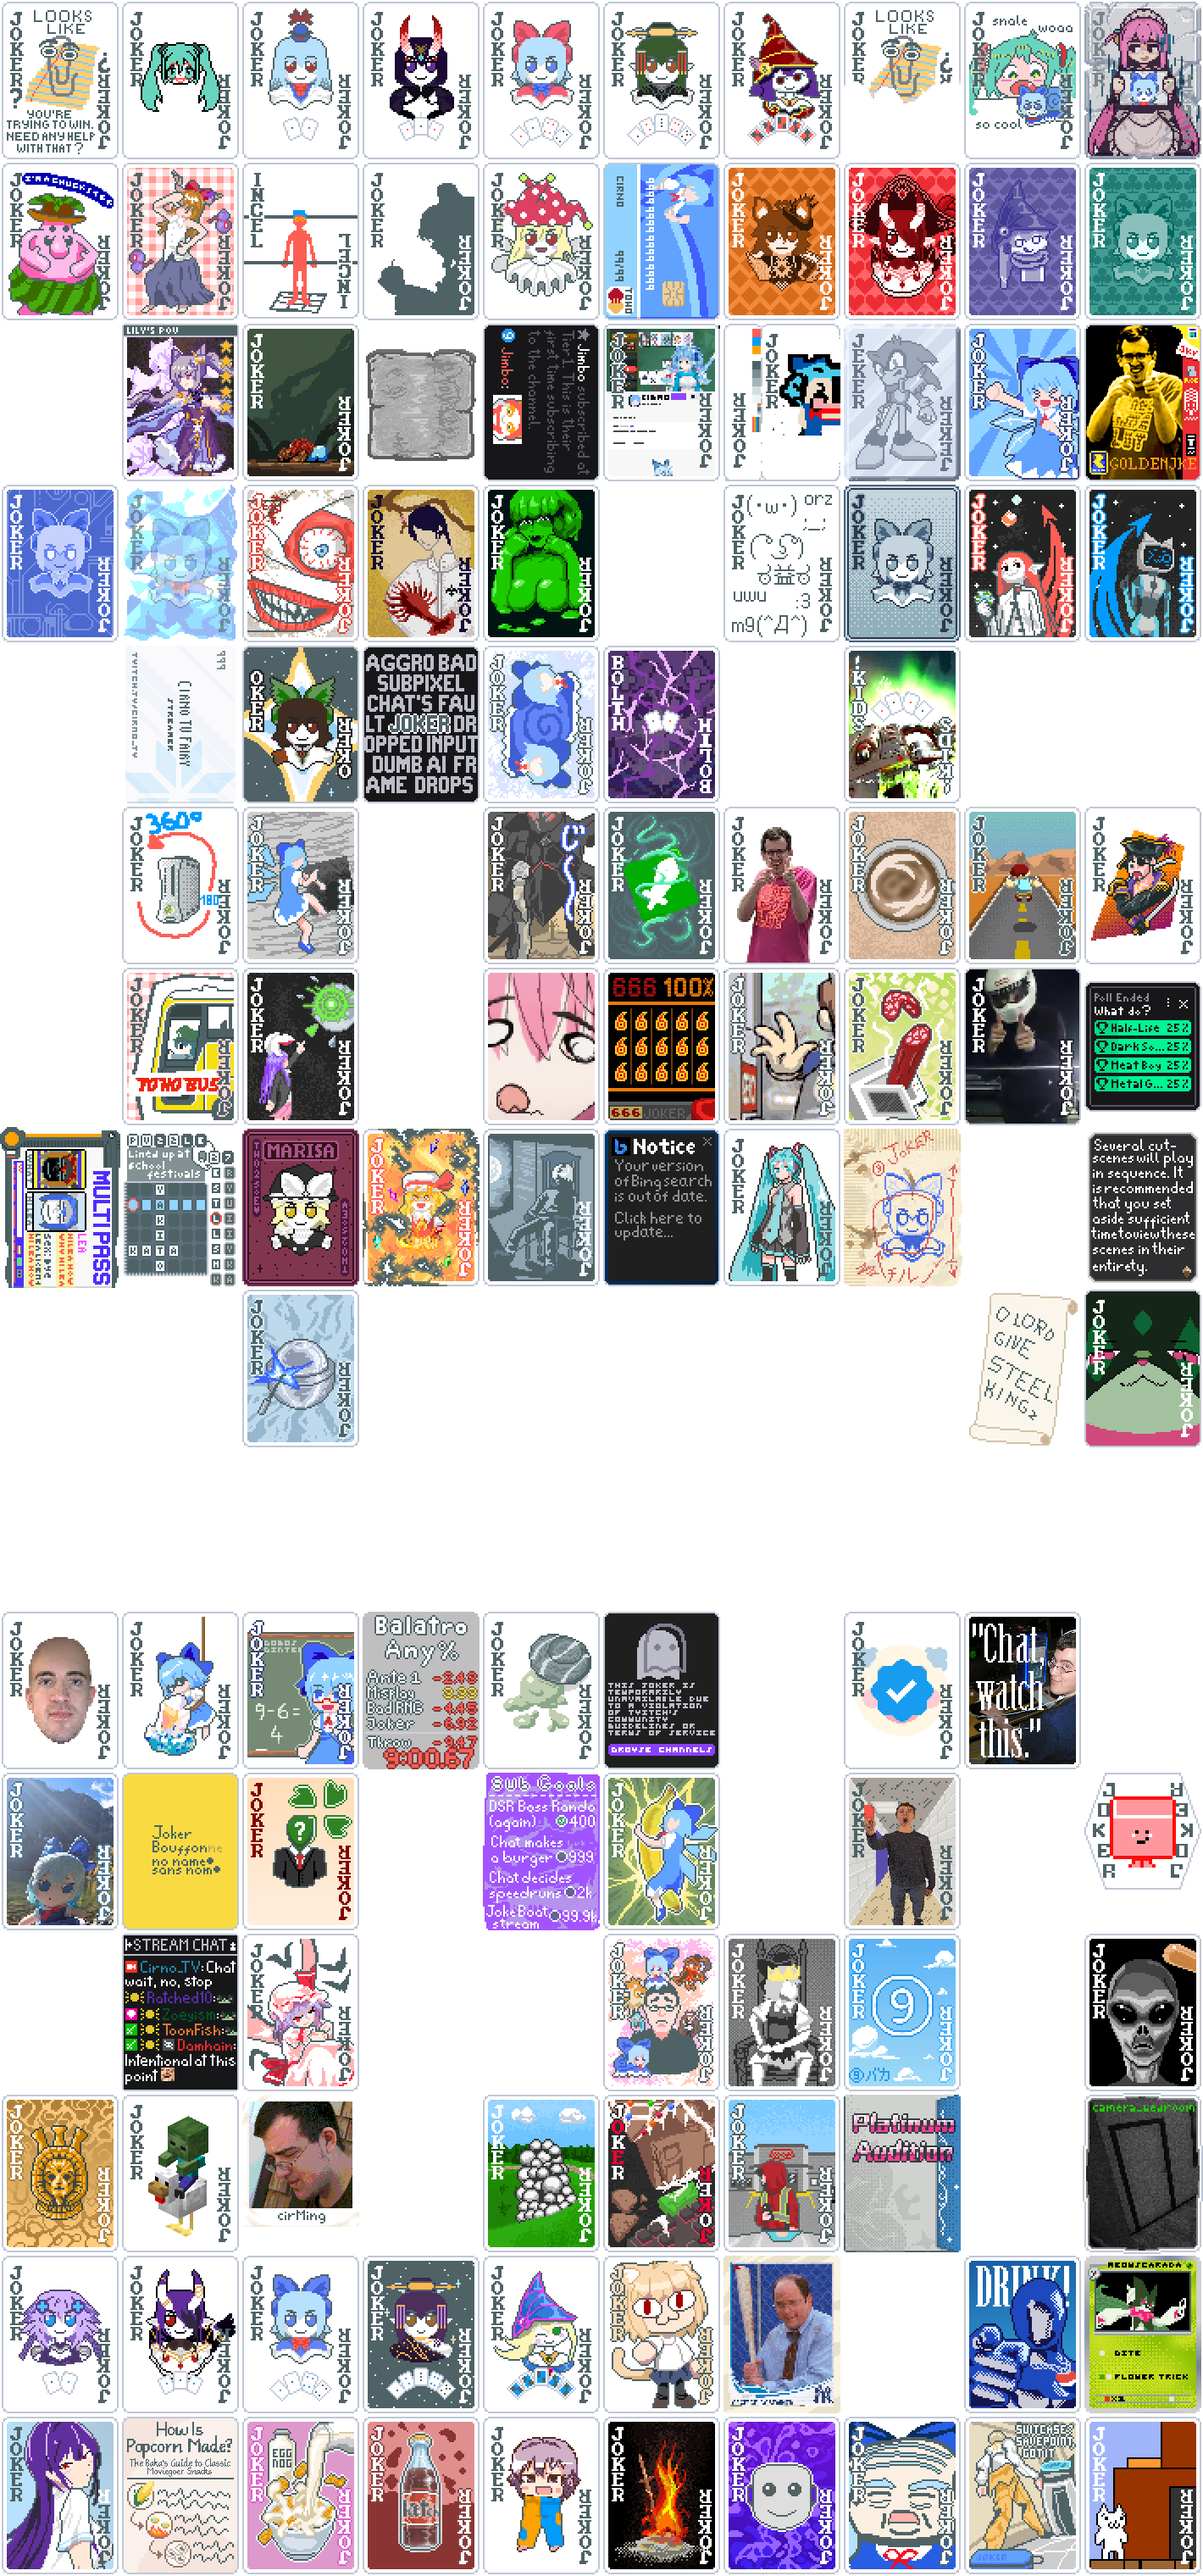
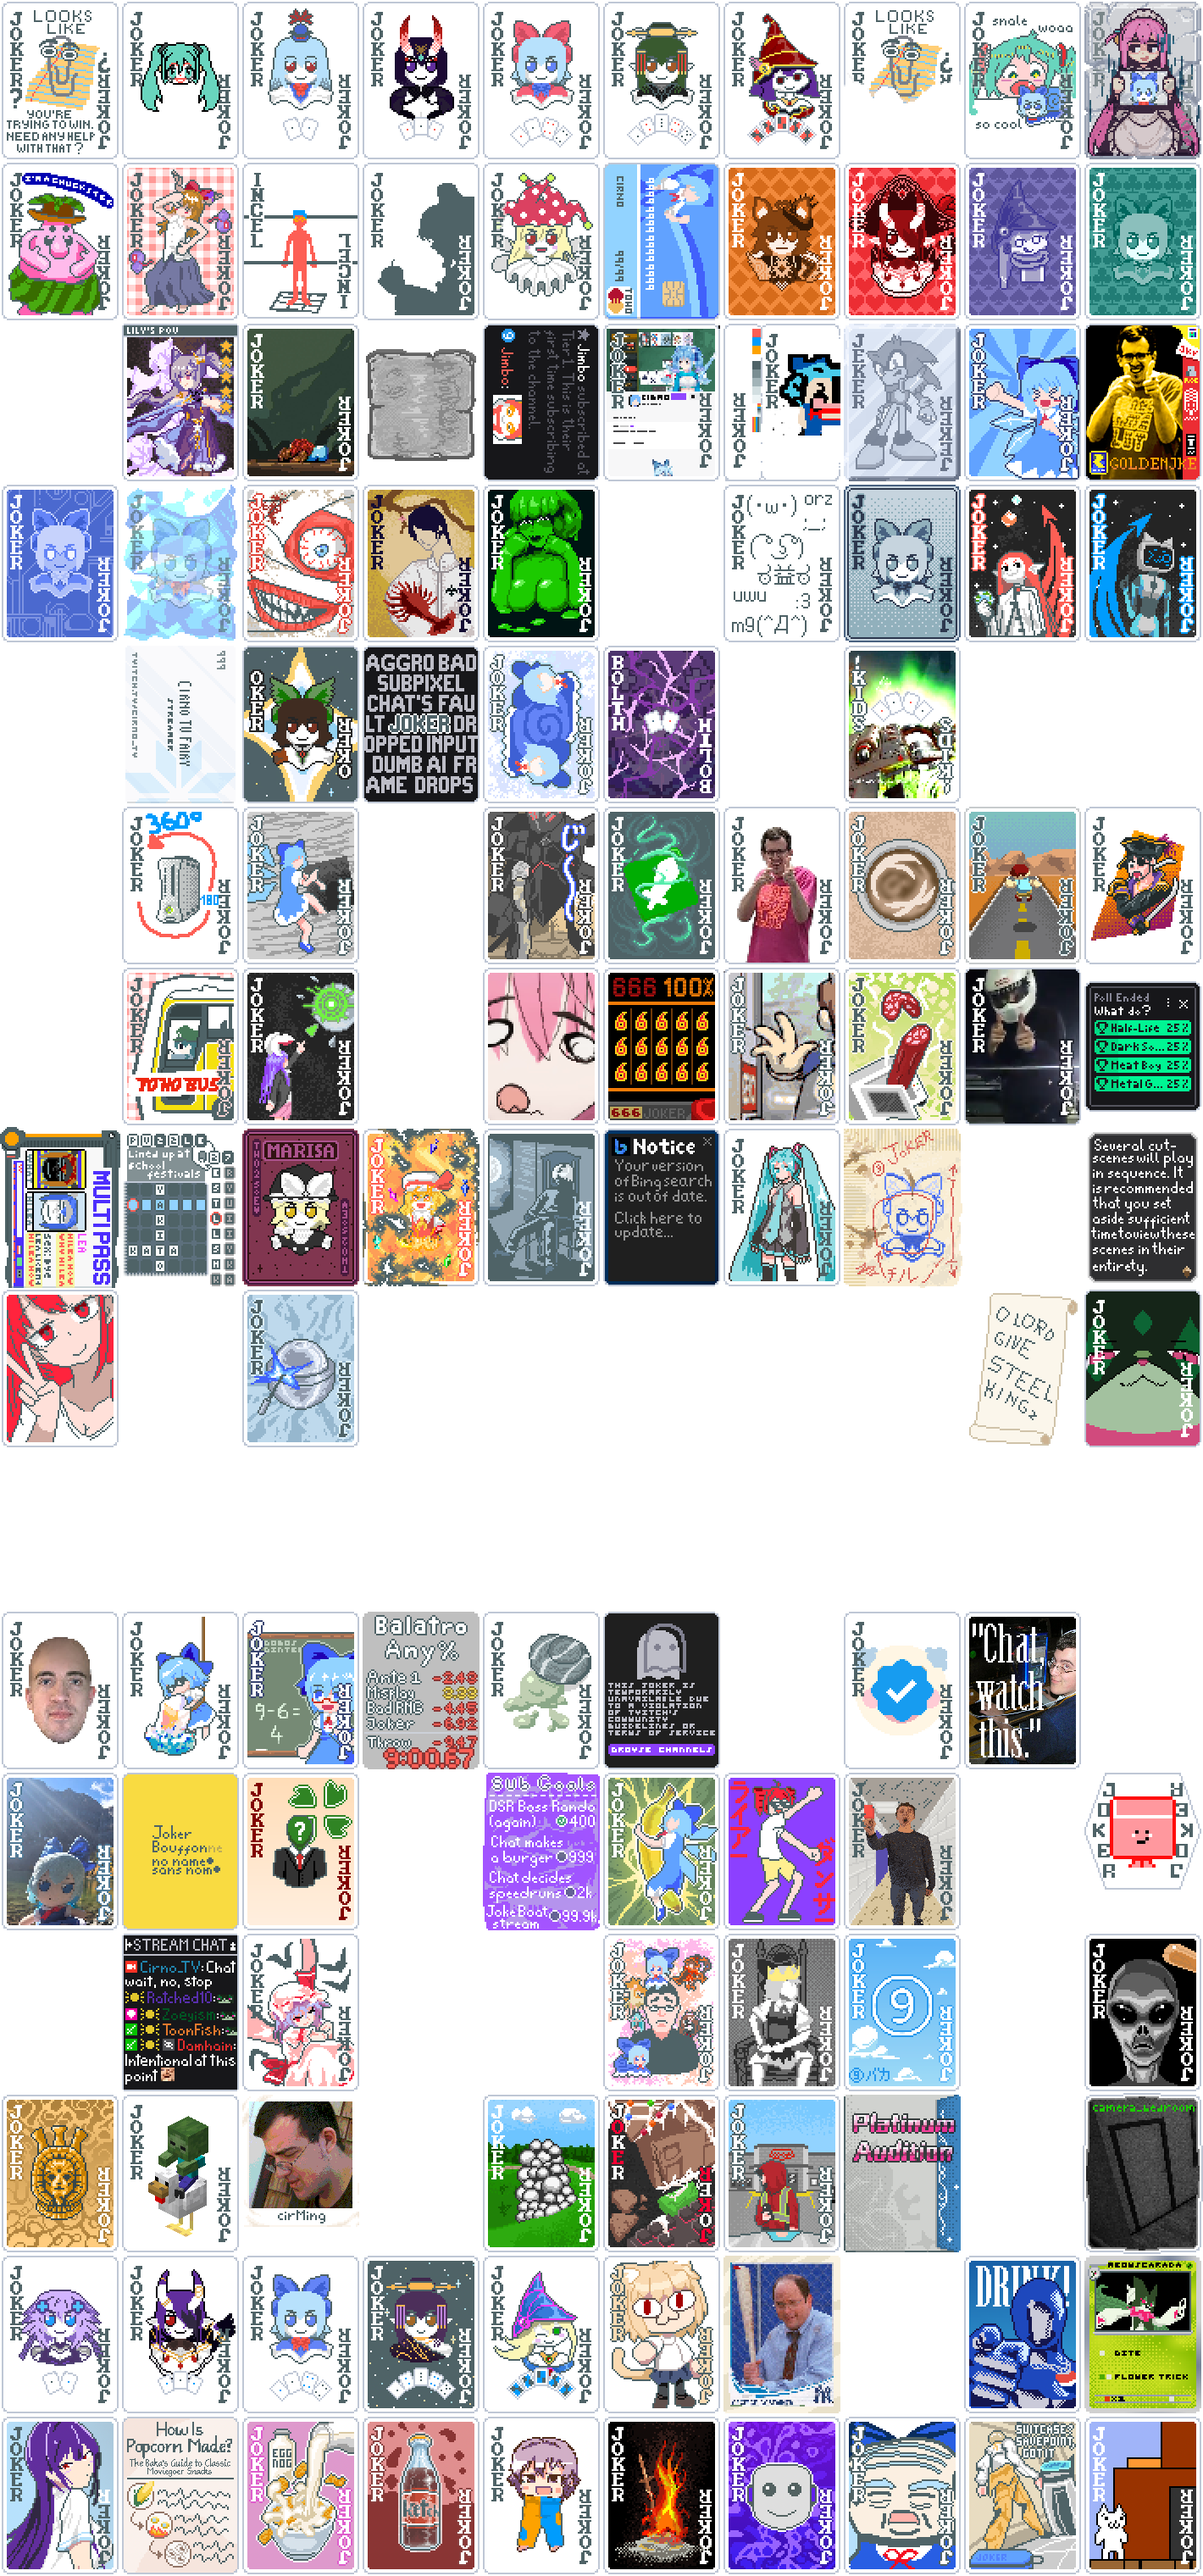
+3 Deck reskins, +2 Joker reskins +3 Tag reskins
Added reskins for Plasma (Best Hu!), Magic Deck, Abandoned Deck, Bloodstone, Card Sharp, Ethereal Tag, Meteor Tag & Orbital Tag.

+ Some minor fixes & adjustments.

Changed region(s): [[0.5887, 0.6875, 0.7127, 0.75], [0.0, 0.5, 0.093, 0.5625]]

diff --git a/README.md b/README.md
@@ -1,7 +1,7 @@
 # Cirno_TV And Friends
 A Balatro mod themed around [Cirno_TV](https://www.twitch.tv/Cirno_TV/), with various references & memes.
 
-**WARNING:** Cirno_TV & Friends isn't explicitly an NSFW-oriented mod, but it does contain a handful of overt, (hopefully) stream-safe mature references in relation to community inside jokes (most particularly those with varying degrees of sexual connotation). This mod is *NOT* intended for children. By default, these (especially overt) mature references are significantly toned-down/altered, with the intent of having reduced mature references (in both number and intensity) encounterable in gameplay for anyone who wants to experience the mod, but is not particularly as interested in the some of the more mature references (and/or wants to stream it, but does not want to have that kind of stuff on their stream) - These changes can be adjusted in the mod's config settings, via the Mature References setting (Config setting changes require a game restart to take effect).
+**WARNING:** Cirno_TV & Friends isn't explicitly an NSFW-oriented mod, but it does contain a handful of overt, (hopefully) stream-safe mature references in relation to community inside jokes (most particularly those with varying degrees of sexual connotation). This mod is *NOT* intended for children. By default, these (especially overt) mature references are significantly toned-down/altered, with the intent of having reduced mature references (in both number and intensity) encounterable in gameplay for anyone who wants to experience the mod, but is not particularly as interested in the some of the more mature references (and/or wants to stream it, but does not want to have that kind of stuff on their stream) - These changes can be adjusted in the mod's config settings, via the Mature References setting (In-game config setting changes require a game restart to take effect).
 
 ![CTVaF Logo](https://i.imgur.com/CcRk9nq.png)
 
@@ -17,13 +17,13 @@ DaemonTsun's art contributions are public domain - Some memes or pictures are no
 
 **Cirno_TV & Friends** currently:
 - Retextures:
-  - 127 Jokers (Some get filtered/altered by the Mature Reference setting depending on what it is set to.)
+  - 129 Jokers (Some get filtered/altered by the Mature Reference setting depending on what it is set to.)
   - All Blind Chips
   - All Seals
   - All Planet Cards
   - 15 Booster Packs
-  - 11 Decks
-  - 11 Tags
+  - 14 Decks
+  - 14 Tags
   - 8 Tarot Cards
   - 7 Spectral Cards
   - 4 Enhancements
